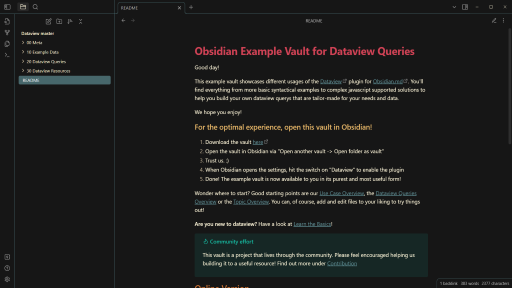
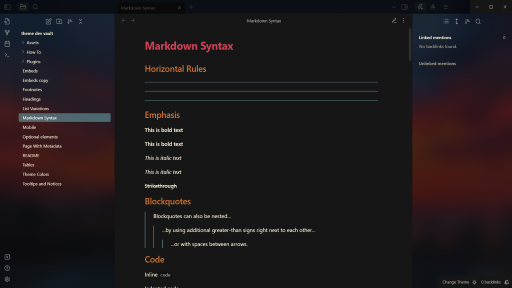
v2.2.0 - added callout css and tweeked some variables

diff --git a/obsidian.css b/obsidian.css
@@ -2,95 +2,152 @@
 /* Thank's to Wasp by Santi Younger and Sanctum by @jdanielmourao theme for the inspiartion */
 
 :root {
-   --font-monospace: 'Victor Mono', 'Source Code Pro', monospace;
+	--font-monospace: "Victor Mono", "Source Code Pro", monospace;
 }
 
 .theme-dark {
-   /* Background */
-   --background-primary: #161616;
-   --background-primary-alt: #161616;
-   --background-secondary: #161616;
-   --background-secondary-alt: #161616;
-   --background-modifier-border: #63959ca2;
+	/* Background */
+	--background-primary: #161616;
+	--background-primary-alt: #161616;
+	--background-secondary: #161616;
+	--background-secondary-alt: #161616;
+	--background-modifier-border: #63959ca2;
+	--interactive-accent: #63959c;
+	--interactive-accent-hover: #457076;
+	--vim-cursor: #63959c;
 
-   /* Text */
-   --text-normal: #faf2d6;
-   --text-faint: #bdae93;
-   --text-highlight-bg: #9dcad09a;
-   --text-link-internal: #83a598;
-   --text-link-external: #83a598;
-   --text-accent-hover: #7caab0;
-   --text-selection: #63959c;
-   --text-accent: #63959c;
-   --text-on-accent: #fff;
+	/* Text */
+	--text-normal: #faf2d6;
+	--text-faint: #bdae93;
+	--text-highlight-bg: #9dcad09a;
+	--text-link-internal: #83a598;
+	--text-link-external: #83a598;
+	--text-accent-hover: #7caab0;
+	--text-selection: #63959c;
+	--text-accent: #63959c;
+	--text-on-accent: #fff;
 
-   /* Heading */
-   --h1-color: #d04255;
-   --h2-color: #d57634;
-   --h3-color: #e5b567;
-   --h4-color: #a8c373;
-   --h5-color: #6c99bb;
-   --h6-color: #9386c8;
+	/* Heading */
+	--h1-color: #d04255;
+	--h2-color: #d57634;
+	--h3-color: #e5b567;
+	--h4-color: #a8c373;
+	--h5-color: #6c99bb;
+	--h6-color: #9386c8;
 
-   /* Code */
-   --code-block: #83a598;
-   --code-background: #101111;
-
-   /* MISC */
-   --interactive-accent-rgb: #63959c;
-   --vim-cursor: #63959c;
-   --interactive-accent: #63959c;
-   --interactive-before: #7c6f64;
+	/* Code */
+	--code-block: #83a598;
+	--code-background: #101111;
 }
 
-.nav-file-title,
-.nav-folder-title {
-   color: var(--text-normal);
+/* ----- Callout ----- */
+.callout:not(.is-collapsible) {
+	padding: 0px;
+}
+.callout:not(.is-collapsible) .callout-content {
+	padding: 0 var(--callout-title-padding) var(--callout-title-padding)
+		var(--callout-title-padding);
+}
+.callout:not(.is-collapsible) .callout-title {
+	background-color: rgba(var(--callout-color), 0 0.5);
+	padding: var(--callout-title-padding);
+	cursor: pointer;
+}
+.callout:not(.is-collapsible) .callout-title .callout-title-inner {
+	font-weight: normal;
 }
 
-.nav-file-title.is-active,
-.nav-folder-title.is-active,
-body:not(.is-grabbing) .nav-file-title:hover,
-body:not(.is-grabbing) .nav-folder-title:hover {
-   background-color: var(--background-modifier-border);
-   color: white;
+.callout:not(.is-collapsible) {
+	border-color: rgba(var(--callout-color), 0.4);
+	border-width: 1px;
+	border-radius: var(--callout-radius);
+	background-color: rgba(var(--ctp-mantle), 0.4);
 }
 
-.cm-s-obsidian span.cm-formatting-link {
-   color: var(--text-normal);
+.callout-content {
+	padding: var(--callout-title-padding) var(--callout-title-padding)
+		var(--callout-title-padding) calc(var(--callout-title-padding) * 1.5);
+	border-top: 1px dashed rgba(var(--callout-color), 0.4);
 }
 
-.CodeMirror-guttermarker-subtle {
-   color: var(--text-normal) !important;
+.callout-fold {
+	padding-right: 0px;
 }
 
-button.mod-cta {
-   background-color: var(--interactive-accent);
-   color: var(--text-normal);
+.callout-title-inner {
+	flex-grow: var(--anp-callout-fold-position, unset);
 }
 
-.vertical-tab-header-group-title {
-   color: var(--text-white);
+.callout {
+	--callout-title-padding: var(--size-4-2);
+}
+.callout.is-collapsible {
+	border-color: rgba(var(--callout-color), 0.4);
+	border-width: 1px;
+	border-radius: var(--callout-radius);
+	background-color: rgba(var(--ctp-mantle), 0.4);
+	--bold-weight: bolder;
+}
+.callout.is-collapsible .callout-fold {
+	padding-right: 0px;
+}
+.callout.is-collapsible .callout-title-inner {
+	flex-grow: var(--anp-callout-fold-position, unset);
+}
+.callout.is-collapsible.is-collapsed {
+	padding: 0;
+}
+.callout.is-collapsible.is-collapsed .callout-title {
+	background-color: rgba(var(--callout-color), 0.1);
+	padding: var(--callout-title-padding);
+	cursor: pointer;
+}
+.callout.is-collapsible.is-collapsed .callout-content {
+	display: none;
+}
+.callout.is-collapsible:not(.is-collapsed) {
+	padding: 0px 0px var(--callout-title-padding) 0px;
+}
+.callout.is-collapsible:not(.is-collapsed) .callout-title {
+	background-color: rgba(var(--callout-color), 0.1);
+	padding: var(--callout-title-padding);
+	border-color: rgba(var(--callout-color), 0.4);
+	cursor: pointer;
+}
+.callout.is-collapsible:not(.is-collapsed) .callout-content {
+	padding: var(--callout-title-padding) var(--callout-title-padding) 0
+		calc(var(--callout-title-padding) * 1.5);
+	border-top: 1px dashed rgba(var(--callout-color), 0.4);
+}
+.callout:not(.is-collapsible) {
+	padding: 0px;
+}
+.callout:not(.is-collapsible) .callout-title {
+	background-color: rgba(var(--callout-color), 0.1);
+	padding: var(--callout-title-padding);
+	border-color: rgba(var(--callout-color), 0.4);
+}
+.callout .list-collapse-indicator {
+	margin-left: -35px;
+	padding-right: 3px;
 }
 
 /* STYLE SETTINGS */
 /* @settings
-
-name: Aura
-id: aura
+name: UI settings
+id: aura-ui
 settings:
-    - 
-        id: status-bar-position
-        title: status bar position
-        description: status bar style
-        type: variable-select
-        default: fixed
-        options:
-            - 
-                label: default
-                value: fixed
-            - 
-                label: full
-                value: inherit
-
+   - 
+      id: status-bar-position
+      title: Status bar position
+      description: change the status bar style
+      type: variable-select
+      default: fixed
+      options:
+         - 
+            label: minimal
+            value: fixed
+         - 
+            label: full
+            value: inherit
 */

diff --git a/README.md b/README.md
@@ -1,8 +1,11 @@
 # Aura
+
 Aura is a minimal theme.
 
 ![](assets/screenshot.png)
 
 Credits to:
-- Wasp theme by Santi Younger
-- Sanctum by @jdanielmourao
+
+-   Wasp theme by [Santi Younger](https://github.com/santiyounger)
+-   Sanctum by [jdanielmourao](https://github.com/jdanielmourao)
+-   Callouts and the colored folders by [Anubis](https://github.com/AnubisNekhet)
